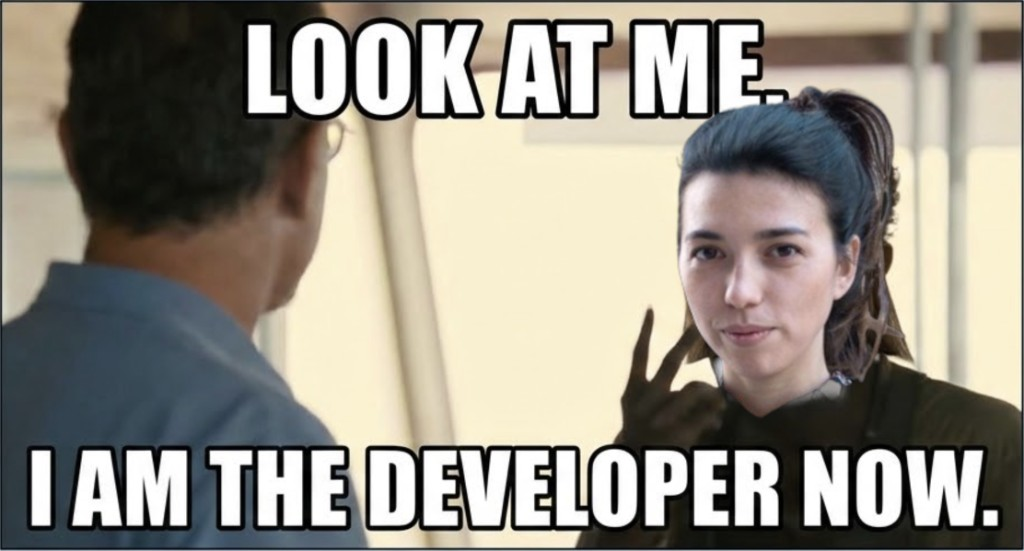
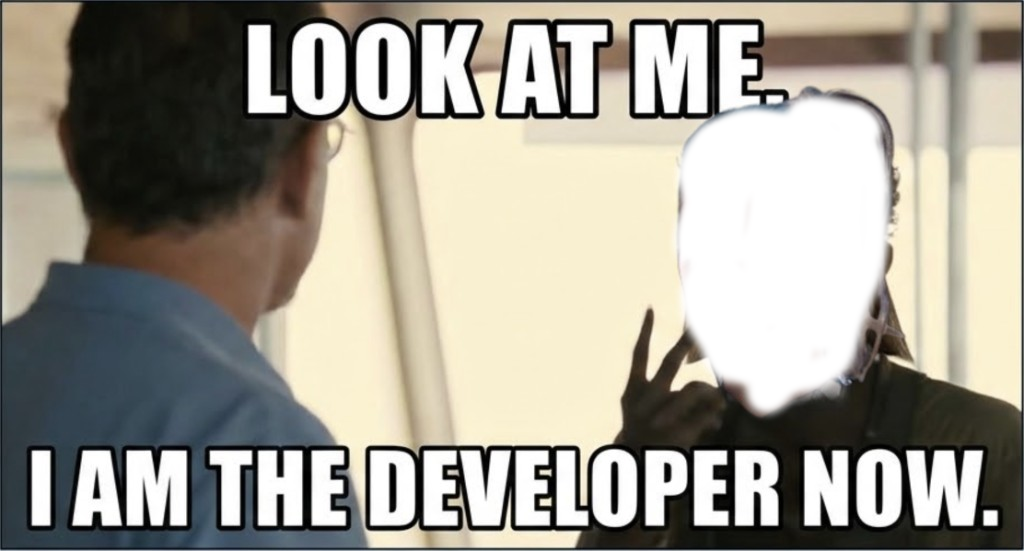
add dynamic picture for meme

Changed region(s): [[0.6562, 0.1543, 0.875, 0.7713]]

diff --git a/content.js b/content.js
@@ -95,6 +95,39 @@
     return '';
   }
 
+  function getUserAvatarUrl() {
+    const selectors = [
+      '[data-testid="atlassian-navigation--profile-button"] img',
+      '[data-testid="ak-spotlight-target-profile-icon-button"] img',
+      'button[aria-label="Your profile and settings"] img',
+      'button[aria-label="Dein Profil und deine Einstellungen"] img',
+      '[data-testid="app-navigation-avatar"] img',
+      'div[role="navigation"] img[src*="avatar"]',
+      'img[data-testid="profileAvatar"]',
+      'nav img[src*="avatar"]',
+      'header img[src*="avatar"]',
+    ];
+    for (const sel of selectors) {
+      const img = document.querySelector(sel);
+      if (img && img.src) return img.src;
+    }
+    const allImgs = document.querySelectorAll('img[src*="avatar"], img[src*="atl-paas.net"]');
+    for (const img of allImgs) {
+      if (img.src && (img.width <= 48 || img.naturalWidth <= 128)) return img.src;
+    }
+    return null;
+  }
+
+  function buildMemeHtml(memeUrl, avatarUrl) {
+    const avatarOverlay = avatarUrl
+      ? `<img src="${avatarUrl}" style="position:absolute;top:22%;left:59%;width:20%;height:auto;aspect-ratio:1;object-fit:cover;border-radius:50%;border:2px solid rgba(255,255,255,0.6);box-shadow:0 2px 8px rgba(0,0,0,0.4);pointer-events:none;" />`
+      : '';
+    return `<div style="position:relative;display:inline-block;max-width:320px;width:100%;margin:10px auto 0;">` +
+      `<img src="${memeUrl}" style="display:block;width:100%;border-radius:10px;box-shadow:0 2px 12px rgba(0,0,0,0.3);" />` +
+      avatarOverlay +
+      `</div>`;
+  }
+
   function showToast(message, isError) {
     let toast = document.getElementById(TOAST_ID);
     if (toast) toast.remove();
@@ -131,6 +164,9 @@
     const existing = document.getElementById(CELEBRATION_ID);
     if (existing) existing.remove();
 
+    const memeUrl = chrome.runtime.getURL('icons/meme.png');
+    const avatarUrl = getUserAvatarUrl();
+
     const overlay = document.createElement('div');
     overlay.id = CELEBRATION_ID;
     Object.assign(overlay.style, {
@@ -161,7 +197,7 @@
       lineHeight: '1.4', letterSpacing: '0.5px',
       textShadow: '0 2px 10px rgba(0,0,0,0.3)',
     });
-    banner.innerHTML = `<div style="font-size:36px;margin-bottom:6px">&#10024; &#127881; &#128640; &#127881; &#10024;</div>${message}<img src="${chrome.runtime.getURL('icons/meme.png')}" style="display:block;max-width:320px;width:100%;border-radius:10px;margin:10px auto 0;box-shadow:0 2px 12px rgba(0,0,0,0.3);" />`;
+    banner.innerHTML = `<div style="font-size:36px;margin-bottom:6px">&#10024; &#127881; &#128640; &#127881; &#10024;</div>${message}${buildMemeHtml(memeUrl, avatarUrl)}`;
     overlay.appendChild(banner);
     document.body.appendChild(overlay);
 
